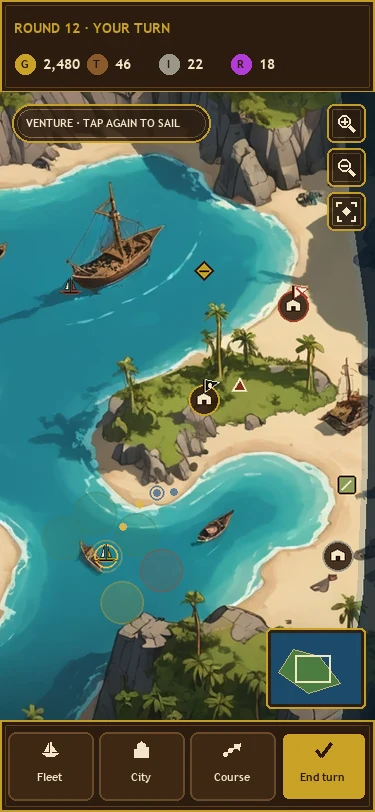
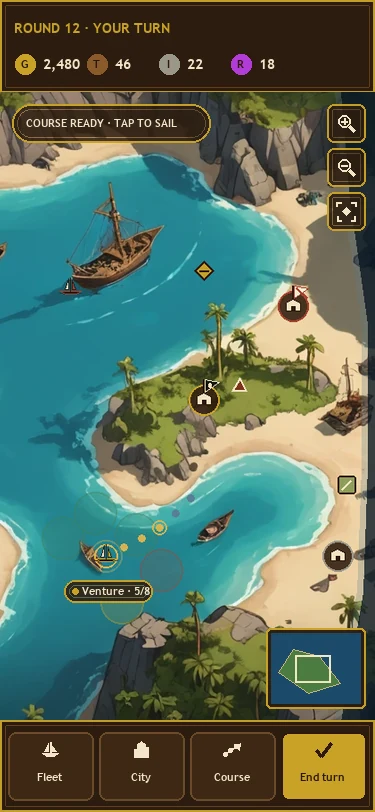
docs: anchor navigable map routes

diff --git a/docs/art/commercial-visual-v2/tools/compose_styleframes.py b/docs/art/commercial-visual-v2/tools/compose_styleframes.py
@@ -8,7 +8,6 @@ Run with the ComfyUI venv (Pillow is already installed there).
 
 from __future__ import annotations
 
-import math
 import textwrap
 from dataclasses import dataclass
 from pathlib import Path
@@ -149,6 +148,20 @@ MAP_TERRAIN_REQUIREMENTS = {
 }
 
 RANGE_OFFSETS = [(-48, -20), (-12, -48), (34, -24), (62, 16), (18, 52)]
+
+MAP_ROUTE_PATHS = {
+    "a": [(410, 460), (430, 450), (450, 442), (470, 435), (490, 423), (510, 410)],
+    "b": [(390, 520), (410, 510), (430, 500), (450, 488), (468, 472), (485, 455)],
+}
+MAP_ROUTE_TURN_INDEX = 3
+
+SELECTED_FLEET_LABEL = "Venture · 5/8"
+SELECTED_FLEET_LABEL_OFFSETS = {
+    "desktop": (-46, 28),
+    "tablet": (-46, 28),
+    "phone": (-42, 24),
+}
+SELECTED_FLEET_LABEL_SIZES = {"desktop": 13, "tablet": 13, "phone": 11}
 
 
 def font(size: int, bold: bool = False, display: bool = False) -> ImageFont.FreeTypeFont:
@@ -595,6 +608,14 @@ def draw_maritime_icon(
         raise ValueError(f"unknown maritime icon: {kind}")
 
 
+def chip_dimensions(label: str, size: int) -> tuple[int, int]:
+    f = font(size, bold=True)
+    bbox = f.getbbox(label)
+    w = bbox[2] - bbox[0] + 20
+    h = bbox[3] - bbox[1] + 14
+    return w, h
+
+
 def chip(
     image: Image.Image,
     xy: tuple[int, int],
@@ -605,10 +626,7 @@ def chip(
     size: int = 14,
 ) -> tuple[int, int, int, int]:
     f = font(size, bold=True)
-    probe = ImageDraw.Draw(image)
-    bbox = probe.textbbox((0, 0), label, font=f)
-    w = bbox[2] - bbox[0] + 20
-    h = bbox[3] - bbox[1] + 14
+    w, h = chip_dimensions(label, size)
     box = (xy[0], xy[1], xy[0] + w, xy[1] + h)
     panel(image, box, direction, radius=h // 2, fill_alpha=224)
     draw = ImageDraw.Draw(image)
@@ -649,19 +667,30 @@ def draw_ship(draw: ImageDraw.ImageDraw, center: tuple[int, int], kind: str, siz
     draw.polygon([(cx + 2, cy - size + 3), (cx + size // 2, cy + size // 8), (cx + 2, cy + size // 8)], fill=rgba(color, 230), outline=rgba(INK, 220))
 
 
-def dotted_route(draw: ImageDraw.ImageDraw, start: tuple[int, int], end: tuple[int, int], scale: float) -> None:
-    dx = end[0] - start[0]
-    dy = end[1] - start[1]
-    distance = max(1.0, math.hypot(dx, dy))
-    steps = max(3, int(distance / (20 * scale)))
-    for i in range(1, steps):
-        t = i / steps
-        x = round(start[0] + dx * t)
-        y = round(start[1] + dy * t - math.sin(t * math.pi) * 34 * scale)
-        color = ROUTE if t < 0.58 else LATER
+def route_segment_samples(start: tuple[int, int], end: tuple[int, int]) -> list[tuple[int, int]]:
+    steps = max(abs(end[0] - start[0]), abs(end[1] - start[1]), 1)
+    return [
+        (
+            round(start[0] + (end[0] - start[0]) * index / steps),
+            round(start[1] + (end[1] - start[1]) * index / steps),
+        )
+        for index in range(steps + 1)
+    ]
+
+
+def draw_route_markers(
+    draw: ImageDraw.ImageDraw,
+    route: list[tuple[int, int]],
+    turn_index: int,
+    scale: float = 1.0,
+) -> None:
+    if not 1 <= turn_index < len(route):
+        raise AssertionError(f"route turn index outside path: {turn_index}")
+    for index, (x, y) in enumerate(route[1:], start=1):
+        color = ROUTE if index <= turn_index else LATER
         r = max(2, round(3.5 * scale))
         draw.ellipse((x - r, y - r, x + r, y + r), fill=rgba(color, 240))
-        if abs(t - 0.58) < 0.06:
+        if index == turn_index:
             draw.ellipse((x - r * 2, y - r * 2, x + r * 2, y + r * 2), outline=rgba(color, 240), width=max(1, round(2 * scale)))
 
 
@@ -698,6 +727,16 @@ def map_coordinate_evidence() -> dict[str, dict[str, dict[str, tuple[int, int]]]
     return evidence
 
 
+def selected_fleet_label_origin(
+    direction_id: str,
+    viewport: str,
+    transform: CoverTransform,
+) -> tuple[int, int]:
+    anchor = transform.project(MAP_WORLD_STATES[direction_id]["own_ship"])
+    offset = SELECTED_FLEET_LABEL_OFFSETS[viewport]
+    return anchor[0] + offset[0], anchor[1] + offset[1]
+
+
 def validate_map_world_states() -> None:
     expected_names = set(MAP_TERRAIN_REQUIREMENTS)
     evidence = map_coordinate_evidence()
@@ -729,6 +768,49 @@ def validate_map_world_states() -> None:
                     raise AssertionError(f"{direction_id} {name} loses source correspondence in {viewport}")
                 if not (10 <= screen_point[0] <= size[0] - 10 and 10 <= screen_point[1] <= size[1] - 10):
                     raise AssertionError(f"{direction_id} {name} is cropped in {viewport}: {screen_point}")
+        route = MAP_ROUTE_PATHS[direction_id]
+        if route[0] != state["own_ship"] or route[-1] != state["route_target"]:
+            raise AssertionError(f"{direction_id} route is detached from its canonical endpoints")
+        dense_route = {
+            point
+            for start, end in zip(route[:-1], route[1:], strict=True)
+            for point in route_segment_samples(start, end)
+        }
+        for point in dense_route:
+            if map_terrain(direction_id, point) != "water" or pixel_terrain(source.getpixel(point)) != "water":
+                raise AssertionError(f"{direction_id} route crosses non-navigable terrain at source {point}")
+            if point_in_polygon(point, fog):
+                raise AssertionError(f"{direction_id} route enters fog at source {point}")
+        for point in route[1:]:
+            for viewport, (size, focus) in MAP_VIEWPORTS.items():
+                transform = cover_transform(MAP_SOURCE_SIZE, size, focus)
+                screen_point = transform.project(point)
+                source_point = transform.unproject(screen_point)
+                if max(abs(source_point[0] - point[0]), abs(source_point[1] - point[1])) > 1.0:
+                    raise AssertionError(f"{direction_id} route marker loses correspondence in {viewport}")
+                if not (5 <= screen_point[0] <= size[0] - 5 and 5 <= screen_point[1] <= size[1] - 5):
+                    raise AssertionError(f"{direction_id} route marker is cropped in {viewport}: {screen_point}")
+        for viewport, (size, focus) in MAP_VIEWPORTS.items():
+            transform = cover_transform(MAP_SOURCE_SIZE, size, focus)
+            ship_anchor = transform.project(state["own_ship"])
+            label_origin = selected_fleet_label_origin(direction_id, viewport, transform)
+            offset = SELECTED_FLEET_LABEL_OFFSETS[viewport]
+            if (label_origin[0] - offset[0], label_origin[1] - offset[1]) != ship_anchor:
+                raise AssertionError(f"{direction_id} fleet label detached in {viewport}")
+            source_anchor = transform.unproject(ship_anchor)
+            if max(abs(source_anchor[0] - state["own_ship"][0]), abs(source_anchor[1] - state["own_ship"][1])) > 1.0:
+                raise AssertionError(f"{direction_id} fleet label anchor loses correspondence in {viewport}")
+            label_width, label_height = chip_dimensions(
+                SELECTED_FLEET_LABEL,
+                SELECTED_FLEET_LABEL_SIZES[viewport],
+            )
+            if not (
+                4 <= label_origin[0]
+                and label_origin[0] + label_width <= size[0] - 4
+                and 4 <= label_origin[1]
+                and label_origin[1] + label_height <= size[1] - 4
+            ):
+                raise AssertionError(f"{direction_id} fleet label is cropped in {viewport}")
         for point in fog:
             if not (0 <= point[0] <= MAP_SOURCE_SIZE[0] and 0 <= point[1] <= MAP_SOURCE_SIZE[1]):
                 raise AssertionError(f"{direction_id} fog point outside source: {point}")
@@ -756,7 +838,7 @@ def annotate_map_world(image: Image.Image, direction: Direction) -> None:
         rr = 24
         cx, cy = own_ship[0] + ox, own_ship[1] + oy
         draw.ellipse((cx - rr, cy - rr, cx + rr, cy + rr), fill=rgba(color, 45), outline=rgba(color, 110), width=2)
-    dotted_route(draw, own_ship, state["route_target"], 1.0)
+    draw_route_markers(draw, MAP_ROUTE_PATHS[direction.id], MAP_ROUTE_TURN_INDEX)
     draw_city_marker(draw, state["own_city"], "own", 17)
     draw_city_marker(draw, state["enemy_city"], "enemy", 17)
     draw_city_marker(draw, state["neutral_city"], "neutral", 17)
@@ -783,12 +865,19 @@ def annotate_map_ui(
     box: tuple[int, int, int, int],
     direction: Direction,
     transform: CoverTransform,
-    phone: bool = False,
+    viewport: str,
 ) -> None:
     x0, y0, _, _ = box
-    own_ship = transform.project(MAP_WORLD_STATES[direction.id]["own_ship"])
-    if not phone:
-        chip(image, (x0 + own_ship[0] - 46, y0 + own_ship[1] + 28), "Venture · 5/8", direction, color=GOLD, size=13)
+    label_origin = selected_fleet_label_origin(direction.id, viewport, transform)
+    chip(
+        image,
+        (x0 + label_origin[0], y0 + label_origin[1]),
+        SELECTED_FLEET_LABEL,
+        direction,
+        color=GOLD,
+        size=SELECTED_FLEET_LABEL_SIZES[viewport],
+    )
+    if viewport != "phone":
         chip(image, (x0 + 18, y0 + 18), "NORMAL ZOOM · FOG SAFE", direction, color=SUCCESS, size=12)
 
 
@@ -874,7 +963,7 @@ def compose_map_desktop(direction: Direction) -> Image.Image:
     if art.size != (1440, bottom - top):
         raise AssertionError(f"desktop map viewport drifted: {art.size}")
     image.paste(art, (0, top))
-    annotate_map_ui(image, (0, top, 1440, bottom), direction, transform)
+    annotate_map_ui(image, (0, top, 1440, bottom), direction, transform, "desktop")
     draw = ImageDraw.Draw(image, "RGBA")
     for i, icon in enumerate(("zoom_in", "zoom_out", "overview")):
         box = (1378, top + 18 + i * 48, 1424, top + 60 + i * 48)
@@ -895,10 +984,10 @@ def compose_map_phone(direction: Direction) -> Image.Image:
     if art.size != (375, bottom - top):
         raise AssertionError(f"phone map viewport drifted: {art.size}")
     image.paste(art, (0, top))
-    annotate_map_ui(image, (0, top, 375, bottom), direction, transform, phone=True)
+    annotate_map_ui(image, (0, top, 375, bottom), direction, transform, "phone")
     draw = ImageDraw.Draw(image, "RGBA")
     panel(image, (12, top + 12, 210, top + 50), direction, radius=19, fill_alpha=220)
-    text(draw, (26, top + 31), "VENTURE · TAP AGAIN TO SAIL", 11, bold=True, anchor="lm")
+    text(draw, (26, top + 31), "COURSE READY · TAP TO SAIL", 11, bold=True, anchor="lm")
     for i, icon in enumerate(("zoom_in", "zoom_out", "overview")):
         box = (327, top + 12 + i * 44, 365, top + 50 + i * 44)
         panel(image, box, direction, radius=7, fill_alpha=225)
@@ -919,7 +1008,7 @@ def compose_map_tablet(direction: Direction) -> Image.Image:
     if art.size != (768, bottom - 74):
         raise AssertionError(f"tablet map viewport drifted: {art.size}")
     image.paste(art, (0, 74))
-    annotate_map_ui(image, (0, 74, 768, bottom), direction, transform)
+    annotate_map_ui(image, (0, 74, 768, bottom), direction, transform, "tablet")
     draw = ImageDraw.Draw(image, "RGBA")
     for i, icon in enumerate(("zoom_in", "zoom_out", "overview")):
         box = (710, 92 + i * 48, 754, 134 + i * 48)
@@ -1163,7 +1252,21 @@ def map_lod_contract() -> Image.Image:
         ship_point = (x + 410, 535)
         draw_ship(draw, ship_point, "enemy", max(7, marker_size - 2), selected=i > 0)
         if i > 0:
-            dotted_route(draw, ship_point, (x + 440, 365), 0.75 if i == 1 else 1.0)
+            route = [
+                ship_point,
+                (x + 430, 505),
+                (x + 445, 475),
+                (x + 450, 440),
+                (x + 448, 402),
+                (x + 445, 365),
+            ]
+            if any(
+                point_in_polygon(point, island)
+                for start, end in zip(route[:-1], route[1:], strict=True)
+                for point in route_segment_samples(start, end)
+            ):
+                raise AssertionError("LOD route must remain on water between every marker")
+            draw_route_markers(draw, route, 3, 0.75 if i == 1 else 1.0)
         text(draw, (x + 22, 170), label, 16, fill=PARCHMENT_LIGHT, bold=True)
         text(draw, (x + 22, 198), scale_note, 13, fill=GOLD, bold=True)
         y = 590

diff --git a/docs/art/commercial-visual-v2/tools/validate_package.py b/docs/art/commercial-visual-v2/tools/validate_package.py
@@ -106,7 +106,7 @@ def main() -> None:
     compositor_api["validate_map_world_states"]()
     print(f"validated {checked} WebP files: 17 sources + 22 review outputs")
     print("validated 5 required documents, local icon family, and unapproved operator gate")
-    print("validated canonical source-world map correspondence and terrain eligibility")
+    print("validated source-world anchors, route samples, label attachment, fog, and terrain eligibility")
 
 
 if __name__ == "__main__":

diff --git a/docs/art/commercial-visual-v2/MANIFEST.md b/docs/art/commercial-visual-v2/MANIFEST.md
@@ -157,7 +157,16 @@ The paired maps use one canonical 1024×704 source-world state per direction. Co
 | Land site      | land/coast       | `(660,500)` | `(660,440)` |
 | Route target   | water            | `(510,410)` | `(485,455)` |
 
-The validator checks declared land masks and the actual source pixel beneath every anchor, verifies no proof marker is inside fog, then project/unprojects every anchor through desktop, tablet, and phone crops with at most one source-pixel rounding error. Range offsets and the route originate from the canonical own-fleet coordinate; the selected-fleet label derives from that same projected anchor.
+Canonical drawn route paths, including the selected fleet as their first point, are:
+
+- Direction A: `(410,460) → (430,450) → (450,442) → (470,435) → (490,423) → (510,410)`;
+- Direction B: `(390,520) → (410,510) → (430,500) → (450,488) → (468,472) → (485,455)`.
+
+The third point after the fleet is the outlined current-turn break. The validator checks every drawn dot plus every source pixel traversed by each segment against declared land masks and the actual source painting—not only the endpoints.
+
+The “Venture · 5/8” chip is attached to the projected own-fleet anchor with deterministic art-canvas offsets: desktop/tablet `(-46,+28)` at 13 px and phone `(-42,+24)` at 11 px. The phone's separate top “Course ready · Tap to sail” banner is route-confirmation chrome, not a fleet label.
+
+The validator also verifies no proof marker or route enters fog, then project/unprojects every anchor, route dot, and label attachment through desktop, tablet, and phone crops with at most one source-pixel rounding error. Range offsets originate from the canonical own-fleet coordinate.
 
 ## Validation record
 
@@ -173,6 +182,7 @@ Completed:
 - native-size acceptance inspection found unsupported font glyphs in the command dock and map controls; fleet, city, course, end-turn, zoom-in, zoom-out, and overview controls were replaced with locally drawn geometry, added to the visual-system sheet at 20 px, and all dependent proofs were re-rendered;
 - responsive acceptance inspection found viewport-relative semantic overlays drifting against separately cropped terrain; all map semantics and fog were moved to canonical source-world coordinates, projected with the terrain crop, and checked against land/water eligibility in both directions;
 - the related defect-class sweep found the semantic-zoom diagram's example fleet and route over land; both were moved to the navigable-water side of the shared island;
+- route-sample acceptance inspection found Direction B's curved intermediate dots crossing sand despite valid endpoints; both directions now use explicit source-water route paths, every drawn and traversed sample is validated, and phone receives a directly fleet-anchored chip distinct from its route-confirmation banner;
 - all review WebPs are below the runtime 300 KiB comparison ceiling; the largest review image is the 228 KiB comparison sheet, although these files are not proposed runtime exports;
 - local checkpoint byte size and SHA-256 matched publisher-hosted files;
 - prompt text hashes were checked against original ComfyUI PNG metadata;

diff --git a/docs/art/commercial-visual-v2/VISUAL-BIBLE.md b/docs/art/commercial-visual-v2/VISUAL-BIBLE.md
@@ -165,6 +165,7 @@ The [map LOD diagram](contracts/map-token-lod-1600x930.webp) is authoritative. C
 ### Portrait phone: below 600 px
 
 - Map: use the selected fleet as the crop focus, keep resources in two compact rows, and remove permanent entity labels. Four primary commands remain reachable at the bottom.
+- The selected fleet may keep one short, directly anchored identity/strength chip. The separate top “Course ready” banner is route-confirmation chrome, not the fleet label, and carries no world-position claim.
 - City: show a 258 px-deep scene preview, then a full-width inspector sheet. The selected ring remains visible in the preview; management actions stay at the sheet bottom.
 
 ### Narrow landscape
@@ -174,7 +175,7 @@ The [map LOD diagram](contracts/map-token-lod-1600x930.webp) is authoritative. C
 
 Across all sizes, safe-area insets apply to top HUD, navigation, command dock, and modal actions. Ornament yields before content or touch-target size.
 
-Map entities, encounters, sites, route/range feedback, and fog are authored once in the 1024×704 source-world coordinate system. Desktop, tablet, and phone project those same coordinates through the terrain's cover crop; they may not recompute positions as viewport percentages. Cities and land encounters/sites require a land/coast anchor, while fleets, sea encounters, and route nodes require navigable water.
+Map entities, encounters, sites, route/range feedback, and fog are authored once in the 1024×704 source-world coordinate system. Desktop, tablet, and phone project those same coordinates through the terrain's cover crop; they may not recompute positions as viewport percentages. Cities and land encounters/sites require a land/coast anchor, while fleets, sea encounters, every route sample, and route turn markers require navigable water. A selected-fleet label derives from the transformed fleet anchor plus a documented collision offset in every viewport.
 
 ## 12. Dynamic city states
 

diff --git a/docs/art/commercial-visual-v2/RUNTIME-SPEC.md b/docs/art/commercial-visual-v2/RUNTIME-SPEC.md
@@ -140,7 +140,7 @@ Payload budgets are compressed transfer totals, not per-file substitutions:
 
 Validate at native size after optimization. Reject an export if alpha fringe, roof rigging, flag shape, token class, or selected outline materially changes even when the byte target is met.
 
-Responsive map composition uses one source-to-screen transform for terrain and every semantic overlay. Store semantic anchors in source/world coordinates, apply the exact rounded cover scale and crop offset used by the terrain, and derive contextual labels from the transformed anchor. Viewport-relative entity placement is invalid even when one screenshot looks correct.
+Responsive map composition uses one source-to-screen transform for terrain and every semantic overlay. Store semantic anchors and route samples in source/world coordinates, apply the exact rounded cover scale and crop offset used by the terrain, and derive contextual labels from the transformed anchor plus a deterministic viewport collision offset. Validate every route sample and turn marker against navigable terrain rather than checking endpoints alone. Viewport-relative entity or label placement is invalid even when one screenshot looks correct.
 
 The current theme-upload limits (`maxImageBytes: 500_000`, `maxImageDimension: 256`) are a separate existing user-content contract and remain unchanged. They do not relax the stricter default-art targets above.
 
